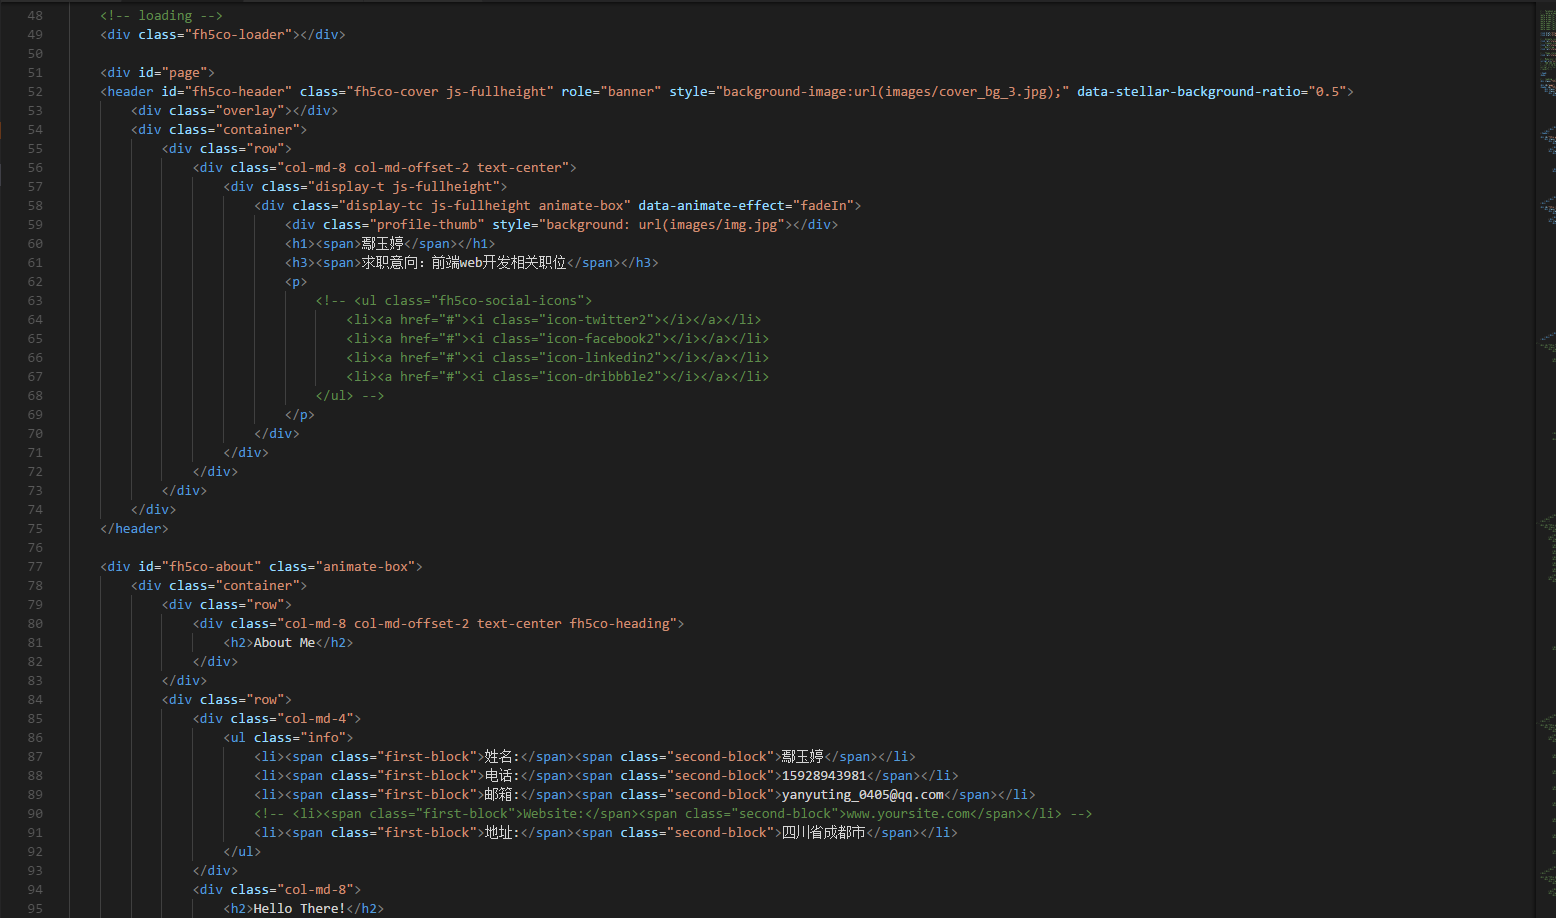
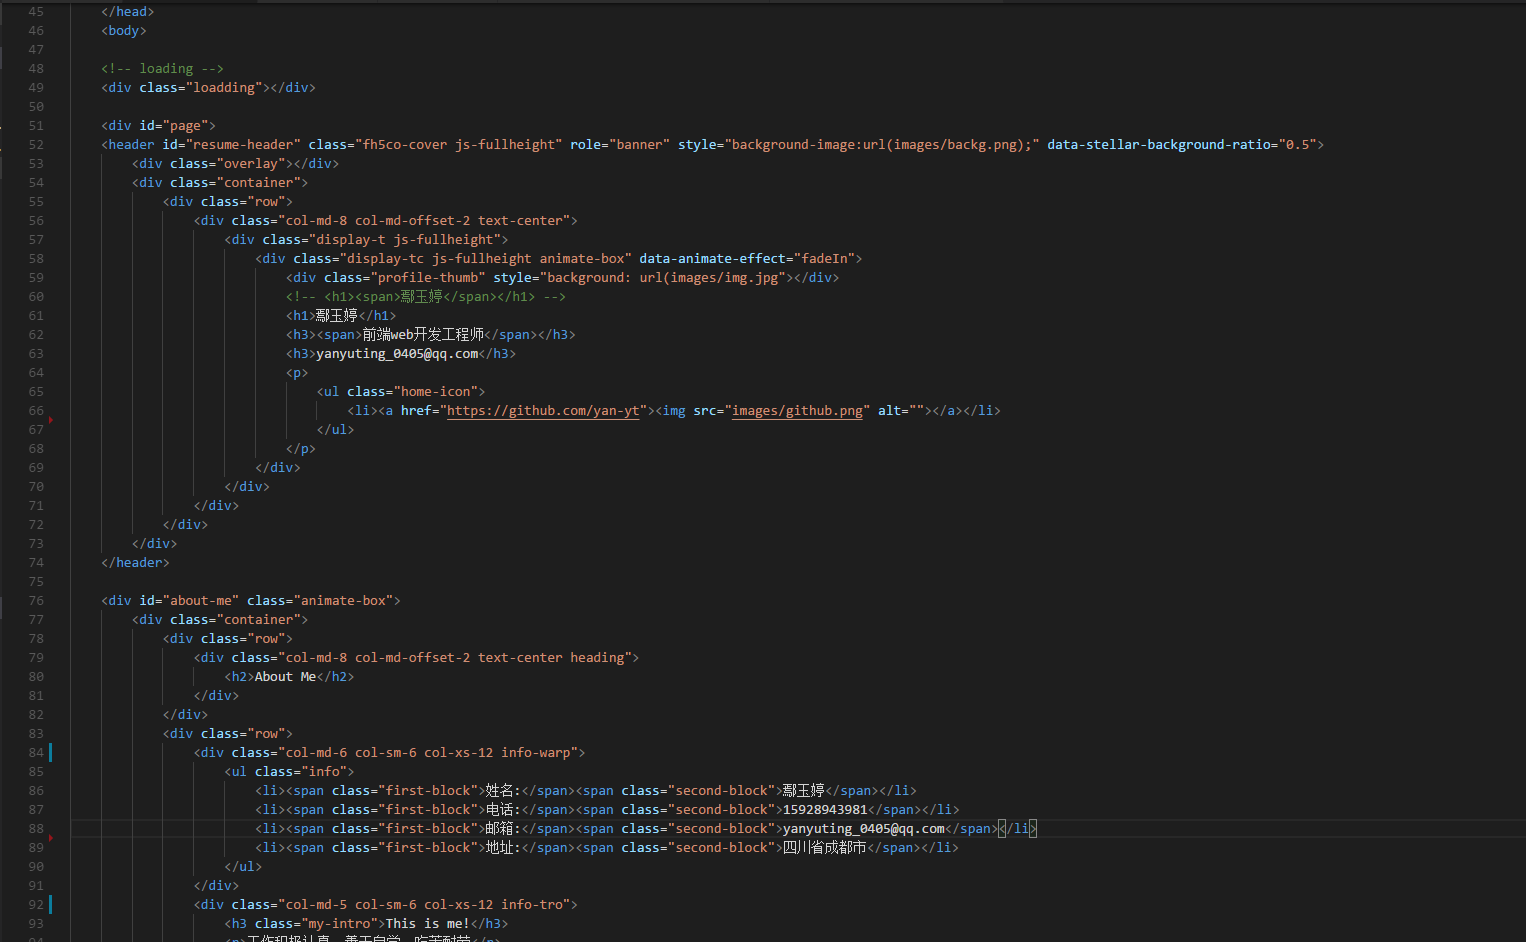
UI&Img

diff --git a/index.html b/index.html
@@ -64,10 +64,6 @@
 							<p>
 								<ul class="home-icon">
 									<li><a href="https://github.com/yan-yt"><img src="images/github.png" alt=""></a></li>
-									<!-- <li><a href="#"><i class="icon-twitter2"></i></a></li>
-									<li><a href="#"><i class="icon-facebook2"></i></a></li>
-									<li><a href="#"><i class="icon-linkedin2"></i></a></li>
-									<li><a href="#"><i class="icon-dribbble2"></i></a></li> -->
 								</ul>
 							</p>
 						</div>
@@ -85,28 +81,19 @@
 				</div>
 			</div>
 			<div class="row">
-				<div class="col-md-6 col-sm-6 col-xs-12">
+				<div class="col-md-6 col-sm-6 col-xs-12 info-warp">
 					<ul class="info">
 						<li><span class="first-block">姓名:</span><span class="second-block">鄢玉婷</span></li>
 						<li><span class="first-block">电话:</span><span class="second-block">15928943981</span></li>
 						<li><span class="first-block">邮箱:</span><span class="second-block">yanyuting_0405@qq.com</span></li>
-						<!-- <li><span class="first-block">Website:</span><span class="second-block">www.yoursite.com</span></li> -->
 						<li><span class="first-block">地址:</span><span class="second-block">四川省成都市</span></li>
 					</ul>
 				</div>
-				<div class="col-md-6 col-sm-6 col-xs-12">
+				<div class="col-md-5 col-sm-6 col-xs-12 info-tro">
 					<h3 class="my-intro">This is me!</h3>
 					<p>工作积极认真、善于自学、吃苦耐劳</p>
 					<p>融入团队、善于合作</p>
 					<p>热爱互联网，对互联网相关业务或技术充满好奇及热情</p>
-					<p>
-						<!-- <ul class="fh5co-social-icons">
-							<li><a href="#"><i class="icon-twitter2"></i></a></li>
-							<li><a href="#"><i class="icon-facebook3"></i></a></li>
-							<li><a href="#"><i class="icon-linkedin2"></i></a></li>
-							<li><a href="#"><i class="icon-dribbble2"></i></a></li>
-						</ul> -->
-					</p>
 				</div>
 			</div>
 		</div>
@@ -299,9 +286,9 @@
 					<div class="col-md-4 col-sm-6 col-xs-6 text-center">
 						<div class="chart" data-percent="60"><span><strong>SQL</strong></span></div>
 					</div>
-					<!-- <div class="col-md-3 col-sm-6 col-xs-12 text-center">
-						<div class="chart" data-percent="90"><span><strong>AngularJS</strong>90%</span></div>
-					</div> -->
+					<div class="col-md-4 col-sm-6 col-xs-6 text-center">
+						<div class="chart" data-percent="70"><span><strong>Bootstrap</strong></span></div>
+					</div>
 					<div class="col-md-4 col-sm-6 col-xs-6 text-center">
 						<div class="chart" data-percent="50"><span><strong>Java</strong></span></div>
 					</div>
@@ -313,7 +300,7 @@
 							<li>熟悉数据库使用，会编写 SQL 语句，熟悉数据库基本原理，熟悉 SQL Server 基本操作</li>
 							<li>熟悉 jQuery，了解 Backbone, ionic, Bootstrap 等前端框架</li>
 							<li>了解计算机网络与计算机软件技术基础知识，了解 TCP/IP</li>
-							<li>了解软件测试基础，会写测试用例，了解基本测试流程,了解jasmine自动化测试框架</li>
+							<li>了解软件测试基础，会写测试用例，了解基本测试流程,了解jasmine自动化测试框架并使用其写UT</li>
 						</ul>
 					</div>
 				</div>
@@ -460,8 +447,8 @@
 		<div class="overlay"></div>
 		<div class="container">
 			<div class="row animate-box">
-				<div class="col-md-8 col-md-offset-2 text-center resume-heading">
-					<h1>Contact me, Thank You</h1>
+				<div class="col-md-8 col-md-offset-2 col-sm-12 col-xs-12 text-center resume-heading">
+					<h1>Contact me</h1>
 					<p>yanyuting_0405@qq.com</p>
 					<!-- <p><a href="#" class="btn btn-default btn-lg">Contact Us</a></p> -->
 				</div>

diff --git a/css/style.css b/css/style.css
@@ -136,11 +136,11 @@ h1, h2, h3, h4, h5, h6, figure {
   font-size: 50px;
   line-height: 1.3;
   font-weight: 300;
-  -webkit-transform: rotate(-5deg);
+  /* -webkit-transform: rotate(-5deg);
   -moz-transform: rotate(-5deg);
   -ms-transform: rotate(-5deg);
   -o-transform: rotate(-5deg);
-  transform: rotate(-5deg);
+  transform: rotate(-5deg); */
 }
 #resume-header  .display-tc h1 span,
 .fh5co-cover .display-tc h1 span {
@@ -325,7 +325,12 @@ h1, h2, h3, h4, h5, h6, figure {
 .resume-bg-dark .resume-heading p {
   color: #000 !important;
 }
-
+.info-warp {
+  padding: 0 10px;
+}
+.info-tro{
+  padding: 0 10px;
+}
 .info {
   margin: 0;
   padding: 0;
@@ -356,7 +361,7 @@ h1, h2, h3, h4, h5, h6, figure {
 .info li .second-block {
   width: 60%;
   display: inline-block;
-  color: rgba(0, 0, 0, 0.5);
+  /* color: rgba(0, 0, 0, 0.5); */
   font-family: Microsoft YaHei;
 }
 
